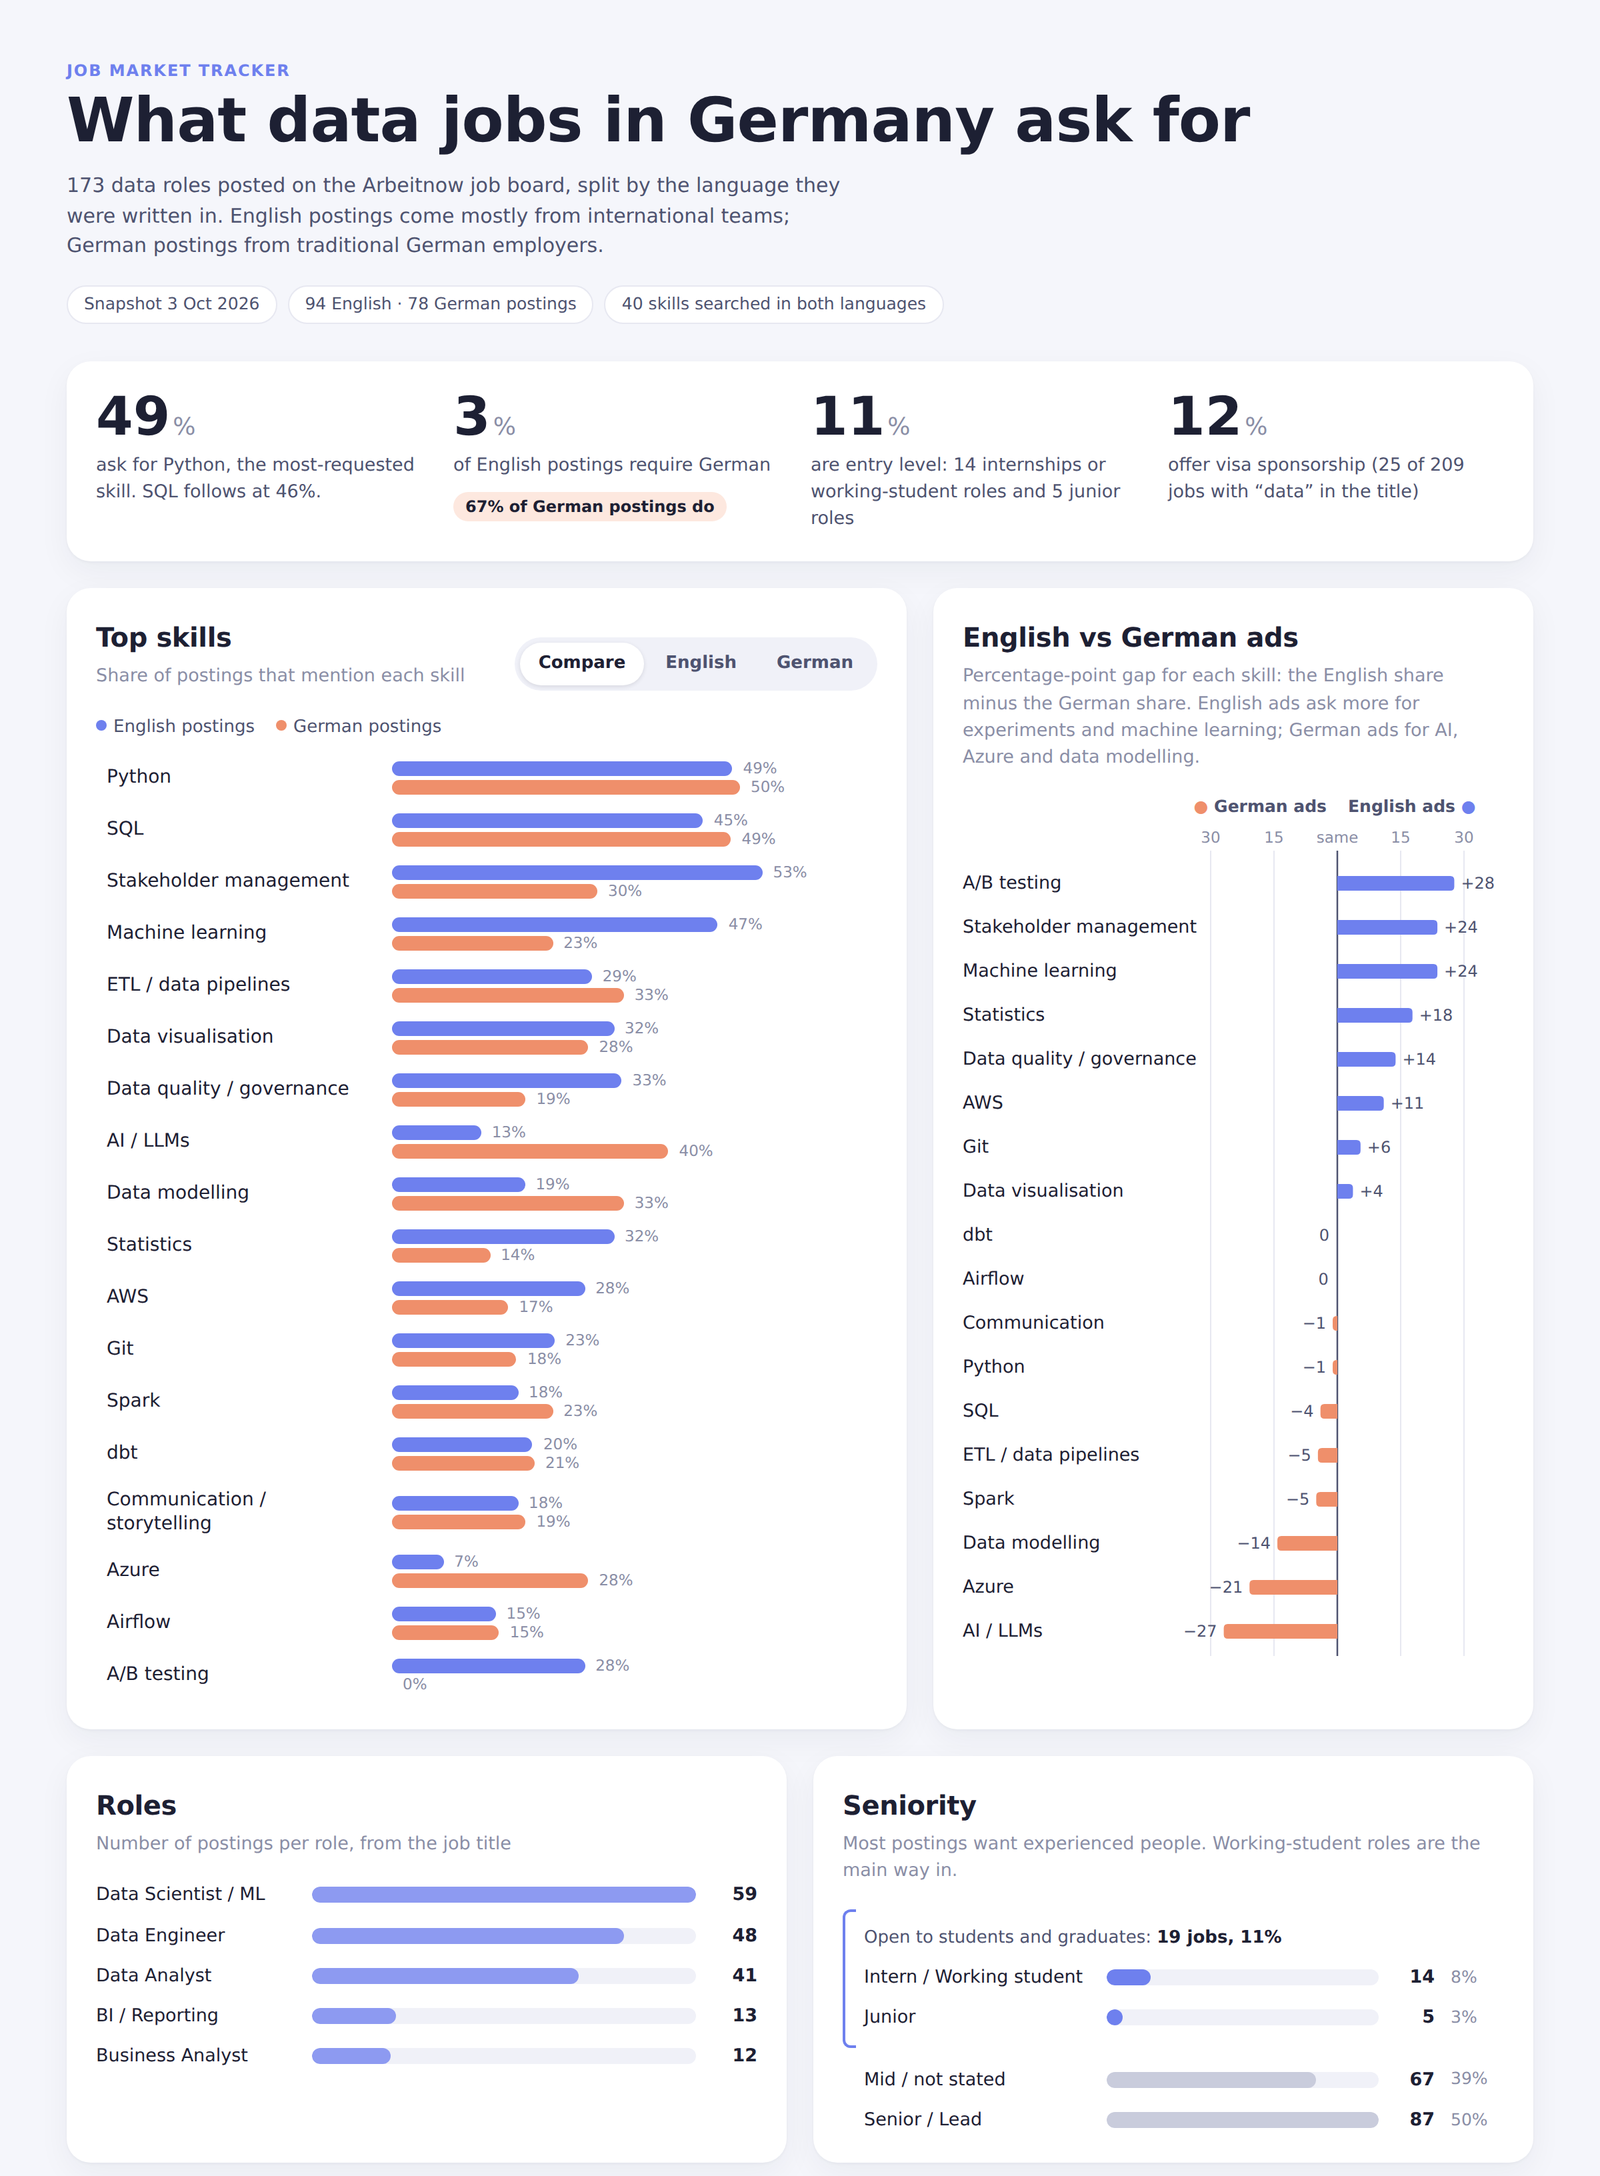
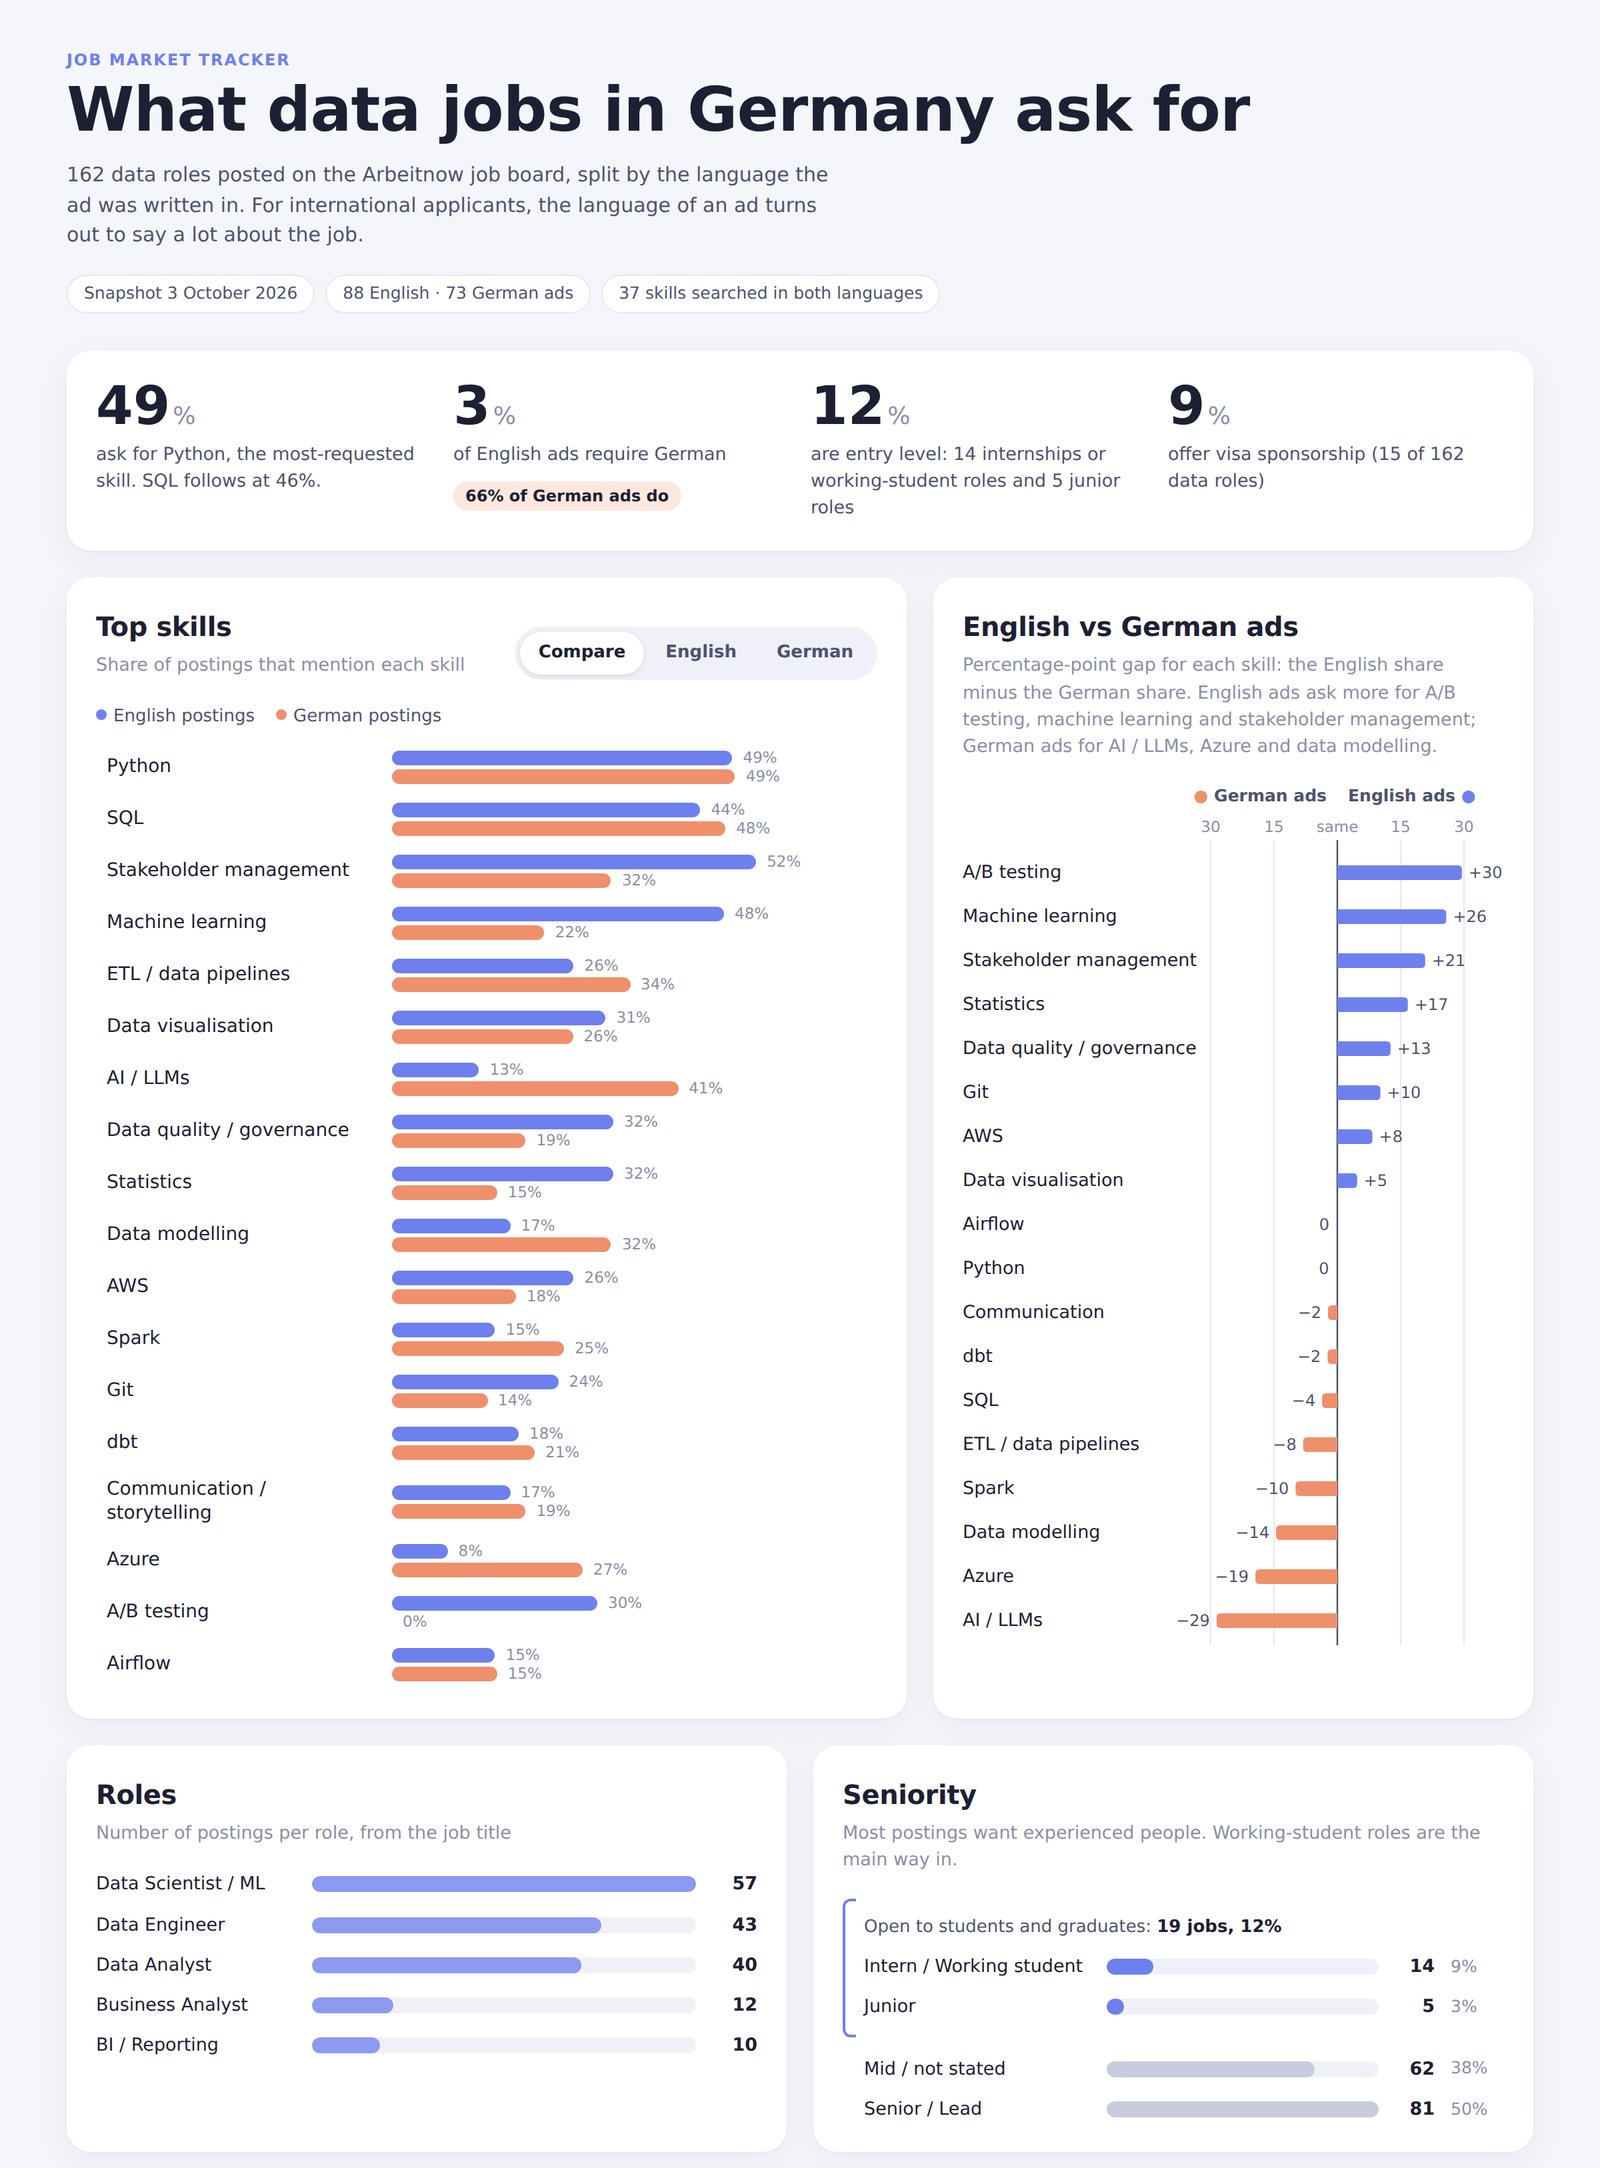
README: consistent numbers from the latest snapshot, live dashboard link, tests and limitations

diff --git a/dashboard/template.html b/dashboard/template.html
@@ -273,7 +273,7 @@ const N = DATA.n_jobs;
     "Data visualisation", "Forecasting", "Communication / storytelling", "A/B testing", "ETL / data pipelines", "Agile / Scrum"];
   const short = n => {
     const t = n.replace("Data quality / governance", "Data quality").replace("Communication / storytelling", "Communication").replace("ETL / data pipelines", "ETL pipelines");
-    return GENERIC.includes(n) ? t.charAt(0).toLowerCase() + t.slice(1) : t;   // tool names keep their capitals
+    return GENERIC.includes(n) && /^[A-Z][a-z]/.test(t) ? t.charAt(0).toLowerCase() + t.slice(1) : t;   // tool names and "A/B" keep their capitals
   };
   const enTop = d.filter(x => x.d >= 5).slice(0, 3).map(x => short(x.name));
   const deTop = d.filter(x => x.d <= -5).reverse().slice(0, 3).map(x => short(x.name));

diff --git a/docs/index.html b/docs/index.html
@@ -280,7 +280,7 @@ const N = DATA.n_jobs;
     "Data visualisation", "Forecasting", "Communication / storytelling", "A/B testing", "ETL / data pipelines", "Agile / Scrum"];
   const short = n => {
     const t = n.replace("Data quality / governance", "Data quality").replace("Communication / storytelling", "Communication").replace("ETL / data pipelines", "ETL pipelines");
-    return GENERIC.includes(n) ? t.charAt(0).toLowerCase() + t.slice(1) : t;   // tool names keep their capitals
+    return GENERIC.includes(n) && /^[A-Z][a-z]/.test(t) ? t.charAt(0).toLowerCase() + t.slice(1) : t;   // tool names and "A/B" keep their capitals
   };
   const enTop = d.filter(x => x.d >= 5).slice(0, 3).map(x => short(x.name));
   const deTop = d.filter(x => x.d <= -5).reverse().slice(0, 3).map(x => short(x.name));

diff --git a/README.md b/README.md
@@ -1,64 +1,72 @@
 # Data Jobs in Germany
 
-**What do data jobs in Germany actually ask for, and how open are they to international graduates?**
+**What do data jobs in Germany ask for, and how open are they to international graduates?**
 
-A weekly, automated tracker of data analyst, data scientist, data engineer and BI job postings in Germany. It collects postings from two job APIs, finds about 40 skills in English and German text, and compares English-language postings with German-language ones. The comparison tells international applicants a lot: which jobs need German, which skills each kind of employer wants, and how many roles are open at entry level.
+A weekly, automated tracker of data analyst, data scientist, data engineer and BI job postings in Germany. It collects postings from two job APIs, searches the full text for 37 skills in English and German, and compares ads written in English with ads written in German. That comparison answers practical questions for international applicants: which jobs need German, which skills each group of employers asks for, and how many roles are open at entry level.
 
-**[View the interactive dashboard](https://claude.ai/artifact/2QBbehWbNZV9rxpTpNo6sf)**
+**[Open the live dashboard](https://grey082005.github.io/data-jobs-germany/)**, rebuilt from the data every Monday.
 
 ![Dashboard: top skills, language requirements, roles and seniority in German data job postings](docs/dashboard.png)
 
-## Key findings (first snapshot, 3 Oct 2026, 173 data roles)
+## Key findings
+
+Snapshot of 3 October 2026: 162 data roles from Arbeitnow (88 English ads, 73 German ads, 1 undetermined).
 
 | Finding | Number |
 |---|---|
-| German required in **German-language** postings | **67%** |
-| German required in **English-language** postings | **3%** |
-| Postings that ask for Python / SQL | 49% / 46% |
-| Entry-level roles (internship, working student, junior) | 11% (19 of 173) |
-| Data jobs offering visa sponsorship | 12% (25 of 209) |
+| German required in **German-language** ads | **66%** (48 of 73) |
+| German required in **English-language** ads | **3%** (3 of 88) |
+| Ads that ask for Python / SQL | 49% / 46% |
+| Entry-level roles (internship, working student, junior) | 12% (19 of 162) |
+| Data roles offering visa sponsorship | 9% (15 of 162) |
 
-1. **The language of a posting tells you whether you need German.** If a job is advertised in English, it almost never requires German.
-2. **Python and SQL are the baseline** in both kinds of postings, at almost the same rate.
-3. **The two kinds of employers want different things.** English postings ask more often for A/B testing (+28 percentage points), machine learning (+24), stakeholder management (+24) and statistics (+18). German postings ask more often for AI/LLMs (+27), Azure (+21) and data modelling (+14).
-4. **Entry-level roles are scarce.** Half of all postings are senior or lead roles; working-student roles are the main way in.
+1. **The language of an ad is a reliable signal for the language of the job.** Ads written in English almost never require German.
+2. **Python and SQL are the baseline.** Both groups ask for them at nearly the same rate.
+3. **The two groups ask for different extras.** English ads ask more often for A/B testing (+30 percentage points), machine learning (+26), stakeholder management (+21) and statistics (+17). German ads ask more often for AI/LLMs (+29), Azure (+19) and data modelling (+14).
+4. **Entry-level roles are scarce.** Half of all ads are senior or lead roles. Working-student roles are the main way in.
+
+These are measured differences between two groups of ads. Why they differ (for example, the type of company behind each group) is not measured here.
 
 ## How it works
 
 ```
-Arbeitnow API ──┐                                        ┌─> history/skill_history.csv
- (full text)    ├─> fetch ─> language ─> skills, role ───┤
-Adzuna API ─────┘            (de / en)    and level      └─> history/market_history.csv
- (counts, salaries)                                               │
-                                                                  └─> dashboard and charts
+Arbeitnow API ──┐                                         ┌─> history/skill_history.csv ──┐
+ (full text)    ├─> fetch ─> language ─> skills, role ────┤                               ├─> docs/index.html
+Adzuna API ─────┘            (de / en)    and level       └─> history/market_history.csv ─┘   (public dashboard)
+ (counts, salaries)
 ```
 
 | Step | Script | What it does |
 |---|---|---|
 | 1 | `fetch_arbeitnow.py` | Collects postings with full descriptions from the [Arbeitnow API](https://www.arbeitnow.com/blog/job-board-api), keeps data roles, marks visa sponsorship |
-| 1b | `fetch_jobs.py` | Collects postings from the [Adzuna API](https://developer.adzuna.com/) for job counts, locations and salaries |
-| 2 | `extract_skills.py` | Finds ~40 skills with English and German patterns (e.g. *statistics* / *Statistik*), sorts each job into a role and a seniority level |
-| 3 | `update_history.py` | Appends this week's summary numbers to the history files |
-| 4 | `make_charts.py` | Draws the skill comparison chart |
+| 1b | `fetch_jobs.py` | Collects postings from the [Adzuna API](https://developer.adzuna.com/) for market size and location |
+| 2 | `extract_skills.py` | Searches each description for 37 skills plus German and English language requirements, using English and German patterns (e.g. *statistics* / *Statistik*), and sorts each job into a role and a seniority level |
+| 3 | `update_history.py` | Appends the week's summary numbers to `history/`, replacing a snapshot if the same date runs twice |
+| 4 | `build_dashboard.py` | Fills `dashboard/template.html` with the latest snapshot and writes `docs/index.html` |
 | all | `pipeline.py` | Runs steps 1 to 3 in order |
+| extra | `make_charts.py` | Draws a static PNG version of the skill comparison |
 
-**Automation:** a GitHub Actions workflow (`.github/workflows/weekly.yml`) runs the pipeline every Monday and commits the new numbers to `history/`. Only summary numbers are stored in the repository, never the job ads themselves.
+**Automation:** a GitHub Actions workflow (`.github/workflows/weekly.yml`) runs every Monday. It runs the tests, then the pipeline, rebuilds the dashboard and commits the new numbers. Only summary numbers are stored in the repository, never the job ads themselves. Raw data is kept as a private workflow artifact for 90 days.
+
+**Tests:** `tests/test_rules.py` checks language detection, skill matching in both languages (including edge cases such as "R" versus "R&D"), and the role and level rules. Run them with `python -m pytest`.
 
 ## Data decisions and limitations
 
-- **Why two sources:** Adzuna's API returns only the first 500 characters of each description, which is usually the company introduction. In the first Adzuna sample, SQL appeared in only 3 of 297 postings. Arbeitnow returns full descriptions (about 5,000 characters on average), so skills are counted from Arbeitnow and Adzuna is used for market size.
+- **Why two sources:** Adzuna's API returns only the first 500 characters of each description, which is usually the company introduction. In a first Adzuna sample, SQL appeared in only 3 of 297 postings. Arbeitnow returns full descriptions (about 5,000 characters on average), so skills are counted from Arbeitnow and Adzuna is used for market size.
 - **Coverage:** Arbeitnow leans towards tech companies and startups that use applicant tracking systems such as Greenhouse. It is not the whole German market.
-- **Language detection** counts common German and English words. It labelled all but 5 of 507 postings in the first run; those are marked *unknown*.
-- **Skill matching** is rule-based, so it only finds skills on the list. The next step tests it against an LLM and against hand-labelled postings.
-- **Duplicates:** some companies repost the same job under a new ID.
+- **Language detection** counts common German and English words. In the first runs it left fewer than 1% of postings undetermined.
+- **Skill matching** is rule-based, so it only finds the skills on the list and can miss unusual wording. The next step measures this against hand-labelled postings.
+- **Seniority** comes from the job title. Ads without a level in the title count as "mid / not stated".
+- **Postings change daily**, so two runs on the same day can differ slightly. The history keeps one snapshot per date.
 
 ## Roadmap
 
 - [x] Two data sources, language detection, bilingual skill extraction
-- [x] Interactive dashboard
 - [x] Weekly automated collection with history
+- [x] Dashboard generated from the data, published with GitHub Pages
+- [x] Tests for the text rules
 - [ ] Trends over time once there are 4+ weekly snapshots
-- [ ] LLM skill extraction, evaluated against rule-based matching on 50 hand-labelled postings (precision, recall, F1)
+- [ ] LLM skill extraction, evaluated against the rules on 50 hand-labelled postings (precision, recall, F1)
 - [ ] Model which factors predict entry-level access and visa sponsorship
 - [ ] Skill-gap tool: compare a CV with current demand
 
@@ -66,9 +74,11 @@ Adzuna API ─────┘            (de / en)    and level      └─> his
 
 ```bash
 pip install -r requirements.txt
-python pipeline.py
+python -m pytest            # check the rules
+python pipeline.py          # collect, extract, update history
+python build_dashboard.py   # rebuild docs/index.html
 ```
 
 Adzuna is optional and needs a free key from [developer.adzuna.com](https://developer.adzuna.com/). Copy `.env.example` to `.env` and add the key. Without it the pipeline skips Adzuna and still runs.
 
-Built with Python (pandas, requests, regular expressions, matplotlib) and GitHub Actions.
+Built with Python (pandas, requests, regular expressions, pytest), HTML/CSS/JavaScript and GitHub Actions.
